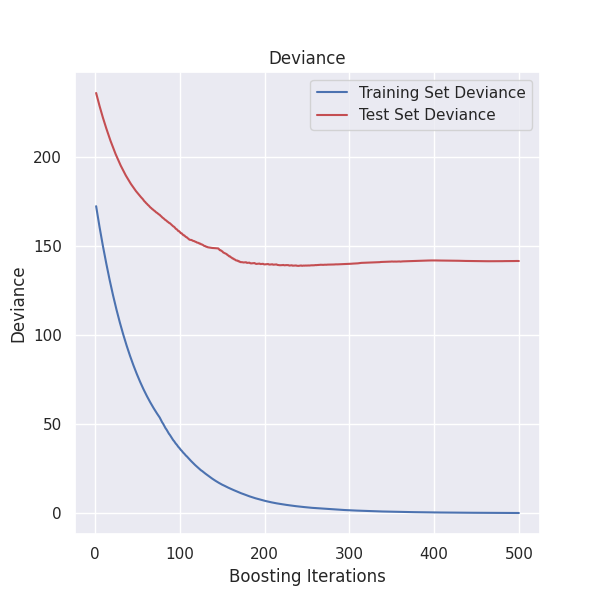
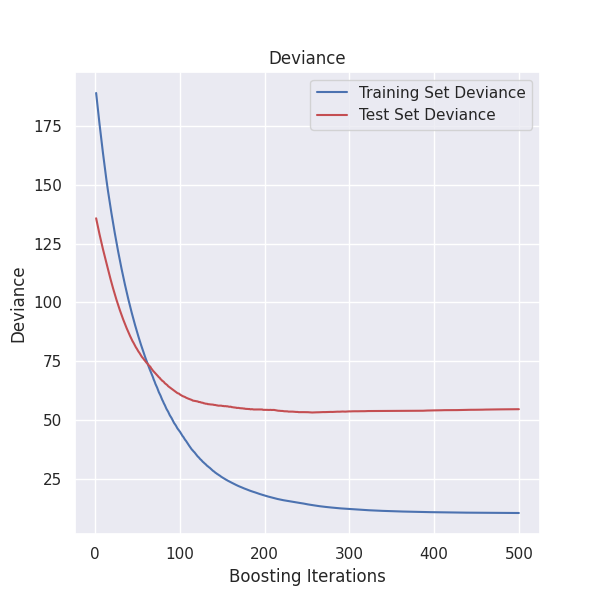
added XGBoost

diff --git a/model.py b/model.py
@@ -8,6 +8,9 @@ from sklearn.metrics import mean_squared_error as MSE
 from sklearn.inspection import permutation_importance 
 from sklearn.ensemble import GradientBoostingRegressor, RandomForestRegressor
 from sklearn.metrics import r2_score, make_scorer
+from keras.models import Sequential
+from keras.layers import Dense 
+from xgboost import XGBRegressor
 
 import warnings
 
@@ -32,7 +35,8 @@ def linear_prediction_from_statsmodels(df, start, end, num=20):
     #print(mdl_duration_vs_departure.params) # Print the parameters of the fitted model
     coeffs = mdl_duration_vs_departure.params # Get the coefficients of mdl_price_vs_conv
     x = np.linspace(df[start + '_departure_time_hr'].min(), df[start + '_departure_time_hr'].max(), num)
-    return x, coeffs[0] + (coeffs[1] * x) 
+    y = coeffs[0] + (coeffs[1] * x)
+    return x, y
 
 def compare(df, start, end):
     print('correlation: ' + str(df[start + '_departure_time_hr'].corr(df['minutes_to_' + end])))
@@ -41,6 +45,8 @@ def fit_dtr(X_train, X_test, y_train, y_test):
     seed = 3
     dt = DecisionTreeRegressor(max_depth=8, random_state=seed)
     dt.fit(X_train, y_train)
+    mse = MSE(y_train, dt.predict(X_train))
+    print(f'DTR mean squared error (MSE) on training set: {mse}')
     mse = MSE(y_test, dt.predict(X_test))
     print(f'DTR mean squared error (MSE) on test set: {mse}')
     return dt, mse
@@ -64,6 +70,8 @@ def fit_gbr(X_train, X_test, y_train, y_test):
 
     reg = GradientBoostingRegressor(**params)
     reg_fit = reg.fit(X_train, y_train)
+    mse = MSE(y_train, reg.predict(X_train))
+    print(f'GBR mean squared error (MSE) on training set: {mse}')
     mse = MSE(y_test, reg.predict(X_test))
     print(f'GBR mean squared error (MSE) on test set: {mse}')
 
@@ -92,6 +100,24 @@ def fit_gbr(X_train, X_test, y_train, y_test):
     # print("The mean squared error (MSE) on test set: {:.4f}".format(mse))
     return reg, mse, params 
 
+def fit_xgbr(X_train, X_test, y_train, y_test):
+    # params = {
+    #     "n_estimators": 500,
+    #     "max_depth": 6,
+    #     "min_samples_split": 4,
+    #     "learning_rate": 0.01,
+    #     "loss": "squared_error"#,
+    # }
+    
+    # reg = XGBRegressor(**params)
+    reg = XGBRegressor()
+    reg_fit = reg.fit(X_train, y_train)
+    mse = MSE(y_train, reg.predict(X_train))
+    print(f'XGBR mean squared error (MSE) on training set: {mse}')
+    mse = MSE(y_test, reg.predict(X_test))
+    print(f'XGBR mean squared error (MSE) on test set: {mse}')
+    return reg, mse
+
 def fit_rfr(X_train, X_test, y_train, y_test):
     # These params were determined the best through the below GridSearchCV
     params = {
@@ -103,6 +129,8 @@ def fit_rfr(X_train, X_test, y_train, y_test):
     rf = RandomForestRegressor(**params)
     # rf = RandomForestRegressor(n_estimators = 300, max_features = 'sqrt', max_depth = 5, random_state = 18)
     rf_fit = rf.fit(X_train, y_train)
+    mse = MSE(y_train, rf.predict(X_train))
+    print(f'RFR mean squared error (MSE) on training set: {mse}')
     mse = MSE(y_test, rf.predict(X_test))
     print(f'RFR mean squared error (MSE) on test set: {mse}')
 
@@ -129,6 +157,19 @@ def fit_rfr(X_train, X_test, y_train, y_test):
     # {'max_depth': 3, 'max_features': 'sqrt', 'n_estimators': 200, 'random_state': 18}
 
     return rf, mse 
+
+def fit_nn(X_train, X_test, y_train, y_test):
+    nn = Sequential()
+    nn.add(Dense(5, kernel_initializer='normal', activation='relu', input_dim=X_train.shape[1]))
+    nn.add(Dense(5, kernel_initializer='normal', activation='tanh'))
+    nn.add(Dense(1, kernel_initializer='normal'))
+    nn.compile(loss='mean_squared_error', optimizer='adam')
+    nn_fit = nn.fit(X_train, y_train, batch_size=int(X_train.shape[0]), epochs=3)
+    mse = MSE(y_train, nn.predict(X_train))
+    print(f'NN mean squared error (MSE) on training set: {mse}')
+    mse = MSE(y_test, nn.predict(X_test))
+    print(f'NN mean squared error (MSE) on test set: {mse}')
+    return nn, mse
 
 def prediction(reg, df, start):
 # def prediction_from_gbr(reg, df, start):

diff --git a/make_plots.py b/make_plots.py
@@ -82,7 +82,7 @@ def time_xticks(ax, earliest_departure, latest_departure):
     #ax.set_xlim(np.fmin(earliest_departure, ticks_loc[0]) - 0.1, np.fmax(latest_departure, ticks_loc[-1]) + 0.1)
     return ax
 
-def duration_vs_departure(df, start='home', end='work', order=1, gbr=False, dtr=False, rfr=False):
+def duration_vs_departure(df, start='home', end='work', order=1, gbr=False, dtr=False, rfr=False, nn=False, xgb=False):
     fig = plt.figure()
     # Apply the default theme
     sns.set_theme()
@@ -103,13 +103,19 @@ def duration_vs_departure(df, start='home', end='work', order=1, gbr=False, dtr=
     # Plot linear prediction line
     #ax = linear_prediction_line(ax, df) # This produces a line in the plot but does not look right
 
+    # y_complete = np.array(df_notna['minutes_to_' + end])
+
     # Practice with statsmodels
     x, y = model.linear_prediction_from_statsmodels(df, start, end)
     ax.plot(x, y, c='b', label='Linear')
 
     # Split data into training and test sets
-    if(gbr or dtr or rfr):
+    if(gbr or dtr or rfr or nn or xgb):
         X_train, X_test, y_train, y_test = dp.preprocess_data(start, end, df)
+        print(f'shape of X_train: {X_train.shape}')
+        print(f'shape of y_train: {y_train.shape}')
+        print(f'shape of X_test: {X_test.shape}')
+        print(f'shape of y_test: {y_test.shape}')
 
     # Practice with gradient boosting regression
     if(gbr):
@@ -127,8 +133,18 @@ def duration_vs_departure(df, start='home', end='work', order=1, gbr=False, dtr=
         rfr, mse = model.fit_rfr(X_train, X_test, y_train, y_test)
         x, y = model.prediction(rfr, df, start)
         ax.plot(x, y, c='m', label='Random Forest')
+    
+    if(nn):
+        nn, mse = model.fit_nn(X_train, X_test, y_train, y_test)
+        x, y = model.prediction(nn, df, start)
+        ax.plot(x, y, c='orange', label='Neural Network')
 
-    if(gbr or dtr or rfr):
+    if(xgb):
+        xgbr, mse = model.fit_xgbr(X_train, X_test, y_train, y_test)
+        x, y = model.prediction(xgbr, df, start)
+        ax.plot(x, y, c='k', label='XGBoost')
+
+    if(gbr or dtr or rfr or nn or xgb):
         ax.legend(loc=1, fontsize=10)
 
     # Specfiy axis labels

diff --git a/main.py b/main.py
@@ -2,5 +2,5 @@ import data_processing as dp
 import make_plots as mp 
 
 df = dp.process_data()
-mp.duration_vs_departure(df, order=3, gbr=True, dtr=True, rfr=True)
-mp.duration_vs_departure(df, start='work', end='home', gbr=True, dtr=True, rfr=True)
+mp.duration_vs_departure(df, order=3, gbr=True, dtr=True, rfr=True, nn=False, xgb=True)
+mp.duration_vs_departure(df, start='work', end='home', gbr=True, dtr=True, rfr=True, nn=False, xgb=True)

diff --git a/data_processing.py b/data_processing.py
@@ -65,6 +65,6 @@ def preprocess_data(start, end, df):
     #print(y)
     #X = df_notna.drop(['minutes_to_' + end], axis=1)
     #print(X)
-    X_train, X_test, y_train, y_test = train_test_split(X, y, test_size=0.1, random_state=13)
+    X_train, X_test, y_train, y_test = train_test_split(X, y, test_size=0.3, random_state=13)
     return X_train, X_test, y_train, y_test 
 
